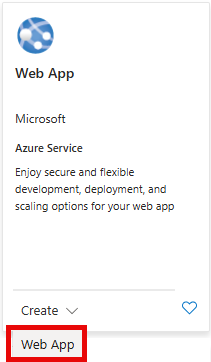
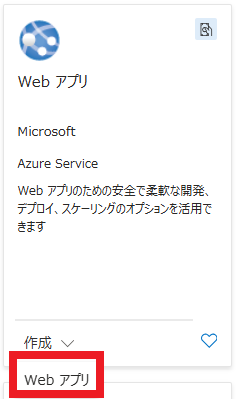
update

diff --git a/01-app-service-deploy-container.md b/01-app-service-deploy-container.md
@@ -22,34 +22,37 @@
 
 4. Web アプリ タイルで、**作成** ドロップダウンを選択し、**Web アプリ** を選択します。
 
+   ![](./media/create-web-app-tile.png)
+
    [**作成**] を選択すると、デプロイに関する情報を入力するためのいくつかのタブを含むテンプレートが開きます。次の手順では、関連するタブで行う変更について説明します。
 
 5. [**基本]** タブに、次の表の情報を入力します
 
    | 設定                          | アクション                                                   |
    | ----------------------------- | ------------------------------------------------------------ |
-   | **予約**                      | デフォルト値を保持します。                                   |
-   | **リソース グループ**         | [新規作成] を選択し、 と入力して [OK] を選択します。必要に応じて、既存のリソース グループを選択することもできます。`rg-WebApp` |
-   | **名前**                      | 一意の名前を入力します (**例: your-initials-containerwebapp**)。*your-initials を* your initial またはその他の値に置き換えます。名前は一意である必要があるため、いくつかの変更が必要になる場合があります。 |
-   | **名前**設定の下のスライダー  | スライダーを選択してオフにします。このスライダーは、一部の Azure 構成でのみ表示されます。 |
-   | **著す**                      | [**コンテナ]** オプションを選択します。                      |
+   | **リソース グループ           | `rg-WebAppplodXXXXXXXX` を選択します。                       |
+   | **名前**                      | **containerwebappXXXXXXXX** を入力します。                   |
+   | **名前**設定の下のスライダー  | スライダーを選択してオフにします。                           |
+   | **公開**                      | **[コンテナー]** オプションを選択します。                    |
    | **オペレーティング システム** | **Linux** が選択されていることを確認します。                 |
    | **地域**                      | 既定の選択をそのままにするか、近くの地域を選択します。       |
-   | **Linuxプラン**               | 既定の選択を保持します。                                     |
-   | **料金プラン**                | ドロップダウンを選択し、**無料の F1** プランを選択します。   |
+   | **Linuxプラン**               | **新規作成** をクリックし **ASP-rg-WebAppXXXXXXXX** を入力した後、 **OK** をクリックします。 |
+   | **料金プラン**                | ドロップダウンを選択し、**Free F1** プランを選択します。     |
+
+   
 
 6. [**コンテナ]** タブを選択または移動し、次の表に情報を入力します。
 
-   | 設定                          | アクション                                            |
-   | ----------------------------- | ----------------------------------------------------- |
-   | **サイドカーのサポート**      | スライダーは**オフ**の位置に設定する必要があります。  |
-   | **画像ソース**                | [**その他のコンテナー・レジストリー**] を選択します。 |
-   | **アクセスタイプ**            | デフォルトの**パブリック**選択を保持します。          |
-   | **レジストリ サーバーの URL** | 入る。`mcr.microsoft.com/k8se`                        |
-   | **画像とタグ**                | 入る。`quickstart:latest`                             |
-   | **起動コマンド**              | 空白のままにします。                                  |
+   | 設定                          | アクション                                           |
+   | ----------------------------- | ---------------------------------------------------- |
+   | **サイドカーのサポート**      | スライダーは**オフ**の位置に設定する必要があります。 |
+   | **画像ソース**                | [**その他のコンテナー レジストリー**] を選択します。 |
+   | **アクセスタイプ**            | デフォルトの**パブリック**選択を保持します。         |
+   | **レジストリ サーバーの URL** | `mcr.microsoft.com/k8se`　を入力します。             |
+   | **画像とタグ**                | `quickstart:latest`　を入力します。                  |
+   | **起動コマンド**              | 空白のままにします。                                 |
 
-7. [**レビュー + 作成**] タブを選択します。
+7. [**確認及び作成**] タブを選択します。
 
 8. 選択した内容を確認し、[**作成**] ボタンを選択します。
 
